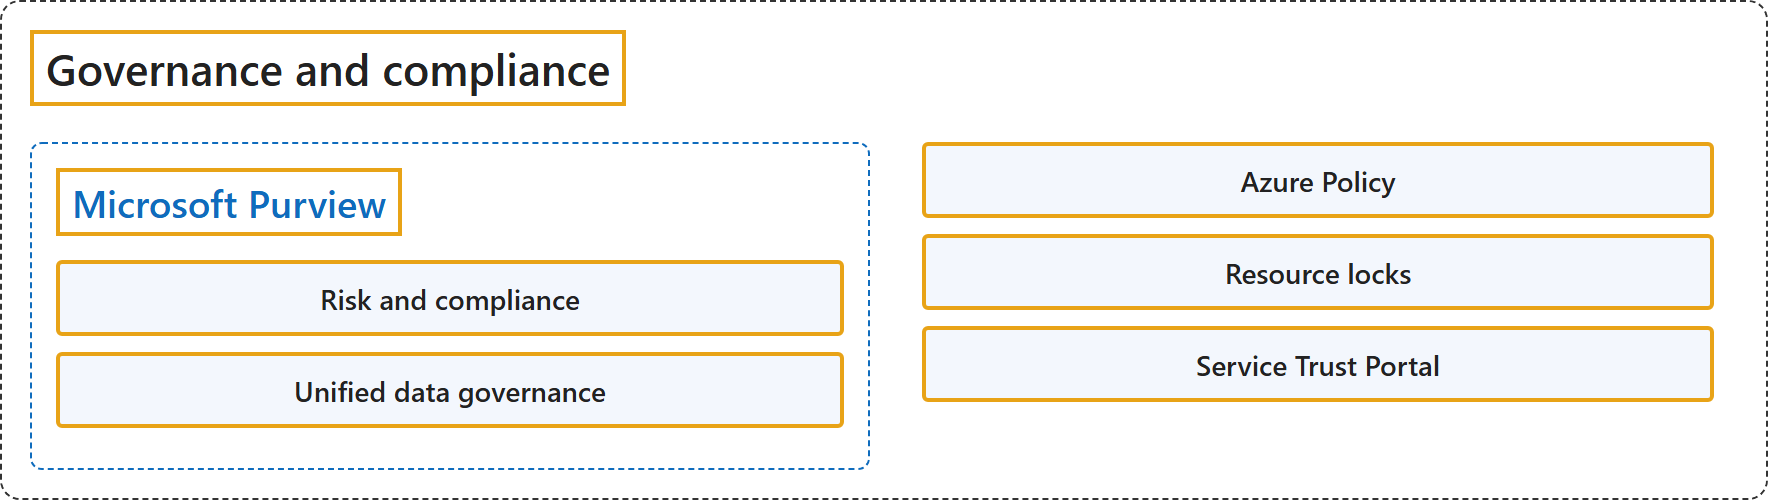
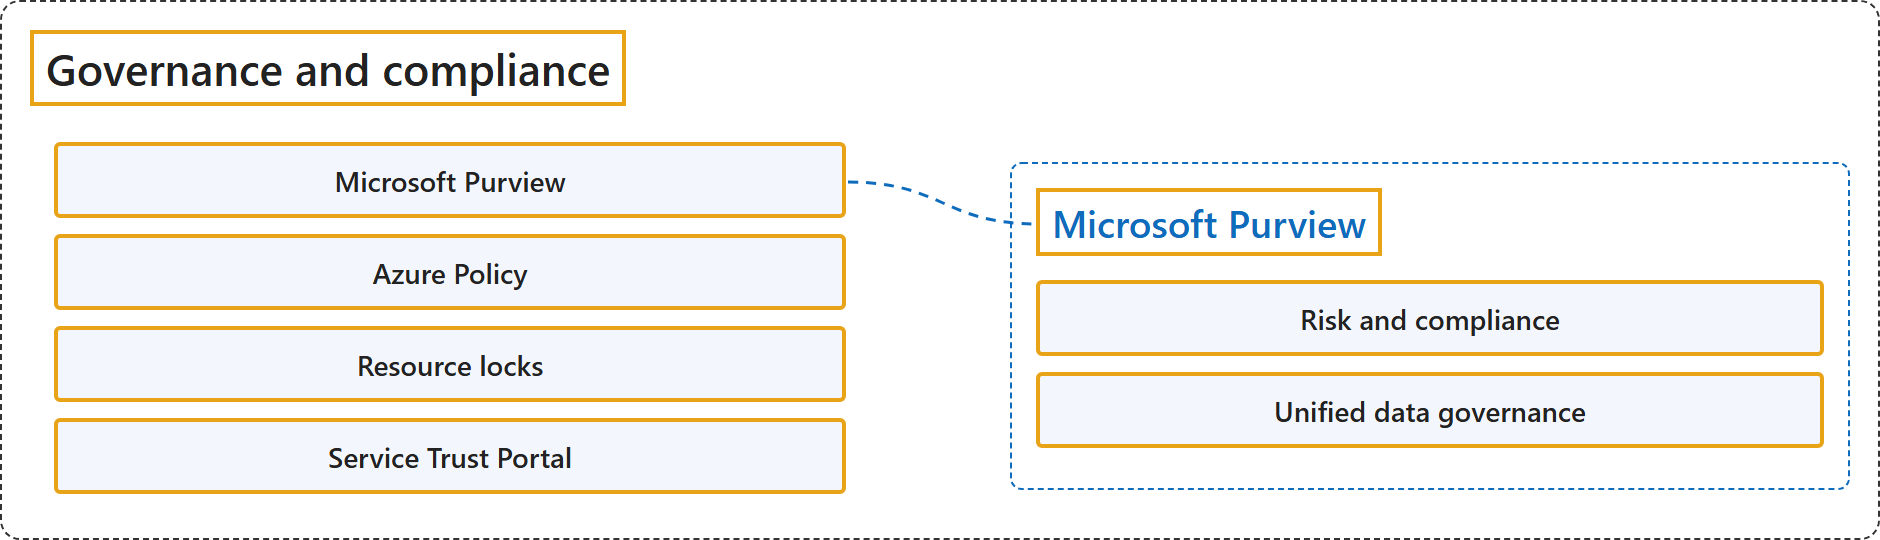
feat(azure): 24.3 Assessment and readiness categories; expansion groups joined by a connector (24.3, 20.2), rule in README

diff --git a/figures/cloud/azure/management-and-governance/governance-and-compliance.html b/figures/cloud/azure/management-and-governance/governance-and-compliance.html
@@ -13,23 +13,35 @@
           display: flex; align-items: center; justify-content: center; font-size: 14px; font-weight: 600; text-align: center; padding: 0 6px; color: #222; }
 </style></head>
 <body>
-<div class="frame" id="fig">
+<div class="frame" id="fig" style="position:relative;">
   <div class="title">Governance and compliance</div>
-  <div class="row">
-    <div class="col">
-      <div class="group">
-        <div class="title">Microsoft Purview</div>
-        <div class="item">Risk and compliance</div>
-        <div class="item">Unified data governance</div>
-      </div>
-    </div>
+  <div class="row" style="gap:70px;align-items:center;">
     <div class="col">
       <div class="group" style="border:none;padding:0 12px 0 12px;">
+        <div class="item" id="from">Microsoft Purview</div>
         <div class="item">Azure Policy</div>
         <div class="item">Resource locks</div>
         <div class="item">Service Trust Portal</div>
       </div>
     </div>
+    <div class="col">
+      <div class="group">
+        <div class="title" id="to">Microsoft Purview</div>
+        <div class="item">Risk and compliance</div>
+        <div class="item">Unified data governance</div>
+      </div>
+    </div>
   </div>
+  <svg id="link" style="position:absolute;left:0;top:0;overflow:visible;pointer-events:none;"></svg>
 </div>
+<script>
+  const fig = document.getElementById('fig').getBoundingClientRect();
+  const a = document.getElementById('from').getBoundingClientRect();
+  const b = document.getElementById('to').getBoundingClientRect();
+  const x1 = a.right - fig.left, y1 = a.top + a.height / 2 - fig.top;
+  const x2 = b.left - fig.left, y2 = b.top + b.height / 2 - fig.top;
+  const mx = (x1 + x2) / 2;
+  document.getElementById('link').innerHTML =
+    `<path d="M${x1},${y1} C${mx},${y1} ${mx},${y2} ${x2},${y2}" fill="none" stroke="#0f6cbd" stroke-width="1.5" stroke-dasharray="5 4"/>`;
+</script>
 </body></html>

diff --git a/figures/cloud/azure/migration/plan.html b/figures/cloud/azure/migration/plan.html
@@ -13,17 +13,38 @@
           display: flex; align-items: center; justify-content: center; font-size: 14px; font-weight: 600; text-align: center; padding: 0 6px; color: #222; }
 </style></head>
 <body>
-<div class="frame" id="fig">
+<div class="frame" id="fig" style="position:relative;">
   <div class="title">Plan</div>
-  <div class="row">
+  <div class="row" style="gap:70px;align-items:center;">
     <div class="col">
       <div class="group" style="border:none;padding:0 12px 0 12px;">
-        <div class="item">Azure readiness</div>
+        <div class="item">Assessment</div>
+        <div class="item" id="from">Azure readiness</div>
         <div class="item">Right-sizing</div>
         <div class="item">Azure cost estimation</div>
         <div class="item">Dependency analysis</div>
       </div>
     </div>
+    <div class="col">
+      <div class="group">
+        <div class="title" id="to">Azure readiness</div>
+        <div class="item">Ready for Azure</div>
+        <div class="item">Conditionally ready for Azure</div>
+        <div class="item">Not ready for Azure</div>
+        <div class="item">Readiness unknown</div>
+      </div>
+    </div>
   </div>
+  <svg id="link" style="position:absolute;left:0;top:0;overflow:visible;pointer-events:none;"></svg>
 </div>
+<script>
+  const fig = document.getElementById('fig').getBoundingClientRect();
+  const a = document.getElementById('from').getBoundingClientRect();
+  const b = document.getElementById('to').getBoundingClientRect();
+  const x1 = a.right - fig.left, y1 = a.top + a.height / 2 - fig.top;
+  const x2 = b.left - fig.left, y2 = b.top + b.height / 2 - fig.top;
+  const mx = (x1 + x2) / 2;
+  document.getElementById('link').innerHTML =
+    `<path d="M${x1},${y1} C${mx},${y1} ${mx},${y2} ${x2},${y2}" fill="none" stroke="#0f6cbd" stroke-width="1.5" stroke-dasharray="5 4"/>`;
+</script>
 </body></html>

diff --git a/figures/cloud/azure/migration/migration.html b/figures/cloud/azure/migration/migration.html
@@ -42,6 +42,7 @@
     <div class="col">
       <div class="group">
         <div class="title">Plan</div>
+        <div class="item">Assessment</div>
         <div class="item">Azure readiness</div>
         <div class="item">Right-sizing</div>
         <div class="item">Azure cost estimation</div>

diff --git a/docs/cloud/azure/migration/plan.md b/docs/cloud/azure/migration/plan.md
@@ -1,27 +1,33 @@
 ---
 title: "24.3 Plan"
-description: "Microsoft Azure, 24.3 Plan: Azure readiness, Right-sizing, Azure cost estimation, Dependency analysis."
-ms.date: 2026-10-25
+description: "Microsoft Azure, 24.3 Plan: Assessment, Azure readiness (Ready for Azure, Conditionally ready for Azure, Not ready for Azure, Readiness unknown), Right-sizing, Azure cost estimation, Dependency analysis."
+ms.date: 2026-10-26
 ---
 
 # 24.3 Plan
 
-Sources: [About Azure Migrate: Plan](https://learn.microsoft.com/en-us/azure/migrate/migrate-services-overview#plan).
+Sources: [About Azure Migrate: Plan](https://learn.microsoft.com/en-us/azure/migrate/migrate-services-overview#plan); [Assessment overview (migrate to Azure VMs)](https://learn.microsoft.com/en-us/azure/migrate/concepts-assessment-calculation?view=migrate-classic).
 
 ## Classification
 
-![Plan: Azure readiness, Right-sizing, Azure cost estimation, Dependency analysis.](media/plan.png)
+![Plan: Assessment, then Azure readiness with its four readiness categories (Ready for Azure, Conditionally ready for Azure, Not ready for Azure, Readiness unknown), then Right-sizing, Azure cost estimation, Dependency analysis.](media/plan.png)
 
 ## Glossary
 
 | Term | Definition | 中文解释 | Source |
 |---|---|---|---|
 | **Plan**<br>计划 | "After you make the decision to migrate to Azure, the next important phase of migration is **planning**. To plan migration in detail, use **Azure Migrate assessments** to find:" | 决定迁移到 Azure 之后，迁移的下一个重要阶段是**规划**。要详细规划迁移，请使用 **Azure Migrate 评估**来确定： | [Microsoft, n.d., "Plan" section, para. 1](https://learn.microsoft.com/en-us/azure/migrate/migrate-services-overview#:~:text=the%20next%20important%20phase%20of%20migration%20is%20planning) |
+| **Assessment**<br>评估 | "An assessment with the Discovery and assessment tool **measures the readiness** and **estimates the effect of migrating on-premises servers to Azure**." | 使用发现和评估工具进行的评估会**衡量就绪性**，并**估算把本地服务器迁移到 Azure 的影响**。 | [Microsoft, 2026, "What's an assessment?" section, para. 1](https://learn.microsoft.com/en-us/azure/migrate/concepts-assessment-calculation?view=migrate-classic#:~:text=measures%20the%20readiness%20and%20estimates) |
 | **Azure readiness**<br>Azure 就绪性 | "**Azure readiness**: Assess whether **on-premises servers, SQL servers, and web apps** are **ready for migration to Azure**." | **Azure 就绪性**：评估**本地服务器、SQL 服务器和 Web 应用**是否**已准备好迁移到 Azure**。 | [Microsoft, n.d., "Plan" section, list item 1](https://learn.microsoft.com/en-us/azure/migrate/migrate-services-overview#:~:text=Assess%20whether%20on%2Dpremises%20servers) |
+| **Ready for Azure**<br>Azure 就绪 | "**Ready for Azure**: The server can be **migrated as-is to Azure without any changes**. It will start in Azure with **full Azure support**." | **Azure 就绪**：服务器可以**不做任何更改、按原样迁移到 Azure**。它会在 Azure 中启动，并获得**完整的 Azure 支持**。 | [Microsoft, 2026, "Calculate readiness" section, list item 1](https://learn.microsoft.com/en-us/azure/migrate/concepts-assessment-calculation?view=migrate-classic#:~:text=migrated%20as%2Dis%20to%20Azure%20without%20any%20changes) |
+| **Conditionally ready for Azure**<br>有条件就绪 | "**Conditionally ready for Azure**: The server **might start in Azure** but **might not have full Azure support**. For example, Azure doesn't support a server that's running an old version of Windows Server." | **有条件就绪**：服务器**可能可以在 Azure 中启动**，但**可能没有完整的 Azure 支持**。例如，Azure 不支持运行旧版 Windows Server 的服务器。 | [Microsoft, 2026, "Calculate readiness" section, list item 2](https://learn.microsoft.com/en-us/azure/migrate/concepts-assessment-calculation?view=migrate-classic#:~:text=might%20start%20in%20Azure%20but%20might%20not%20have%20full%20Azure%20support) |
+| **Not ready for Azure**<br>未就绪 | "**Not ready for Azure**: The server **won't start in Azure**. For example, if an on-premises server's disk stores **more than 64 TB**, Azure can't host the server." | **未就绪**：服务器**无法在 Azure 中启动**。例如，如果本地服务器的磁盘存储了**超过 64 TB** 的数据，Azure 就无法托管该服务器。 | [Microsoft, 2026, "Calculate readiness" section, list item 3](https://learn.microsoft.com/en-us/azure/migrate/concepts-assessment-calculation?view=migrate-classic#:~:text=disk%20stores%20more%20than%2064%20TB) |
+| **Readiness unknown**<br>就绪性未知 | "**Readiness unknown**: Azure Migrate **can't determine the readiness** of the server because of **insufficient metadata**." | **就绪性未知**：Azure Migrate **无法确定服务器的就绪性**，原因是**元数据不足**。 | [Microsoft, 2026, "Calculate readiness" section, list item 4](https://learn.microsoft.com/en-us/azure/migrate/concepts-assessment-calculation?view=migrate-classic#:~:text=because%20of%20insufficient%20metadata) |
 | **Right-sizing**<br>规模调整 | "**Right-sizing**: Estimate the **size of Azure virtual machines (VMs)**, the **Azure SQL configuration**, and the **number of Azure VMware Solution nodes** after migration." | **规模调整**：估算迁移后 **Azure 虚拟机（VM）的大小**、**Azure SQL 配置**以及 **Azure VMware 解决方案节点的数量**。 | [Microsoft, n.d., "Plan" section, list item 2](https://learn.microsoft.com/en-us/azure/migrate/migrate-services-overview#:~:text=Estimate%20the%20size%20of%20Azure%20virtual%20machines) |
 | **Azure cost estimation**<br>Azure 成本估算 | "**Azure cost estimation**: Estimate costs for **running on-premises servers in Azure**." | **Azure 成本估算**：估算**在 Azure 中运行本地服务器**的成本。 | [Microsoft, n.d., "Plan" section, list item 3](https://learn.microsoft.com/en-us/azure/migrate/migrate-services-overview#:~:text=Estimate%20costs%20for%20running%20on%2Dpremises%20servers%20in%20Azure) |
 | **Dependency analysis**<br>依赖关系分析 | "**Dependency analysis**: Understand the **network dependencies between servers** in your datacenter so that you can make **high-confidence migration plans** without missing any critical dependency." | **依赖关系分析**：了解数据中心内**服务器之间的网络依赖关系**，以便制定**高可信度的迁移计划**，不遗漏任何关键依赖。 | [Microsoft, n.d., "Plan" section, list item 4](https://learn.microsoft.com/en-us/azure/migrate/migrate-services-overview#:~:text=Understand%20the%20network%20dependencies%20between%20servers) |
 
 ## References
 
-Microsoft. (n.d.). *About Azure Migrate*. Microsoft Learn. Retrieved October 18, 2026, from <https://learn.microsoft.com/en-us/azure/migrate/migrate-services-overview>
+- Microsoft. (n.d.). *About Azure Migrate*. Microsoft Learn. Retrieved October 18, 2026, from <https://learn.microsoft.com/en-us/azure/migrate/migrate-services-overview>
+- Microsoft. (2026, February 26). *Assessment overview (migrate to Azure VMs)*. Microsoft Learn. <https://learn.microsoft.com/en-us/azure/migrate/concepts-assessment-calculation?view=migrate-classic>

diff --git a/docs/cloud/azure/migration/README.md b/docs/cloud/azure/migration/README.md
@@ -8,7 +8,7 @@ Follows `../README.md`. Figure on `index.md`: classification (see `../README.md`
 |---|---|---|---|---|
 | 24.1 | `migration-strategies.md` | Migration strategies | [Select your cloud migration strategies](https://learn.microsoft.com/en-us/azure/cloud-adoption-framework/plan/select-cloud-migration-strategy) | 24.1.1 Retire, 24.1.2 Rehost, 24.1.3 Replatform, 24.1.4 Refactor, 24.1.5 Rearchitect, 24.1.6 Replace, 24.1.7 Rebuild, 24.1.8 Retain |
 | 24.2 | `decide.md` | Decide | [About Azure Migrate: Decide](https://learn.microsoft.com/en-us/azure/migrate/migrate-services-overview#decide) | 24.2.1 Discovery, 24.2.2 Azure Migrate appliance, 24.2.3 Azure Migrate Collector, 24.2.4 Business case |
-| 24.3 | `plan.md` | Plan | [About Azure Migrate: Plan](https://learn.microsoft.com/en-us/azure/migrate/migrate-services-overview#plan) | 24.3.1 Azure readiness, 24.3.2 Right-sizing, 24.3.3 Azure cost estimation, 24.3.4 Dependency analysis |
+| 24.3 | `plan.md` | Plan | [About Azure Migrate: Plan](https://learn.microsoft.com/en-us/azure/migrate/migrate-services-overview#plan); [Assessment overview (migrate to Azure VMs)](https://learn.microsoft.com/en-us/azure/migrate/concepts-assessment-calculation?view=migrate-classic) | 24.3.1 Assessment, 24.3.2 Azure readiness (24.3.2.1 Ready for Azure, 24.3.2.2 Conditionally ready for Azure, 24.3.2.3 Not ready for Azure, 24.3.2.4 Readiness unknown), 24.3.3 Right-sizing, 24.3.4 Azure cost estimation, 24.3.5 Dependency analysis |
 | 24.4 | `execute.md` | Execute | [About Azure Migrate: Execute](https://learn.microsoft.com/en-us/azure/migrate/migrate-services-overview#execute) | 24.4.1 Azure Migrate, 24.4.2 Azure Migrate and Modernize, 24.4.3 Agentless migration, 24.4.4 Agent-based migration, 24.4.5 Azure Database Migration Service, 24.4.6 Data Migration Assistant, 24.4.7 Azure App Service Migration Assistant, 24.4.8 Azure Data Box |
 
 Azure Migrate as a whole is defined here (24.4.1; 8.4.1 links here). Azure Data Box is defined in `../storage/` (8.4.2); 24.4.8 links there. Total cost of ownership is defined in 20.1.1; 24.2.4 links there. The Cloud Adoption Framework's own phases are 18. The CST8913 rehost and refactor processes are process figures on 24.4.

diff --git a/docs/cloud/azure/README.md b/docs/cloud/azure/README.md
@@ -120,6 +120,7 @@ When I meet a new term (in a lecture, a slide, a lab):
 - `media/`: the figures, drawn by us (no copied images). Each has an HTML source in `figures/` at the repo root, rendered to PNG with `figures/shot.py` (see the repository README, "Figures"). Every figure in this folder has its source there.
 - Names only, no section numbers; the table under the topic figure maps them to sub-pages.
 - Green step circles only on process figures (see `figure_rules.md` in the cloud notes repo).
+- A box with sub-terms of its own stays in its column, in source order; its sub-terms go in a separate group beside the column, titled with the same name, joined by a blue dashed curve from the box to that title (template: `figures/cloud/azure/migration/plan.html`, Azure readiness in 24.3). The topic figure shows only the box.
 
 ## 8. Place in the knowledge base
 

diff --git a/docs/cloud/azure/management-and-governance/governance-and-compliance.md b/docs/cloud/azure/management-and-governance/governance-and-compliance.md
@@ -10,7 +10,7 @@ Sources: [AZ-900 module: Describe features and tools in Azure for governance and
 
 ## Classification
 
-![Governance and compliance: Microsoft Purview with its two solution areas, risk and compliance and unified data governance, then Azure Policy, resource locks and the Service Trust Portal, one unit each of the AZ-900 module.](media/governance-and-compliance.png)
+![Governance and compliance: Microsoft Purview, Azure Policy, resource locks and the Service Trust Portal, one unit each of the AZ-900 module, with Microsoft Purview expanded into its two solution areas, risk and compliance and unified data governance.](media/governance-and-compliance.png)
 
 ## Glossary
 
